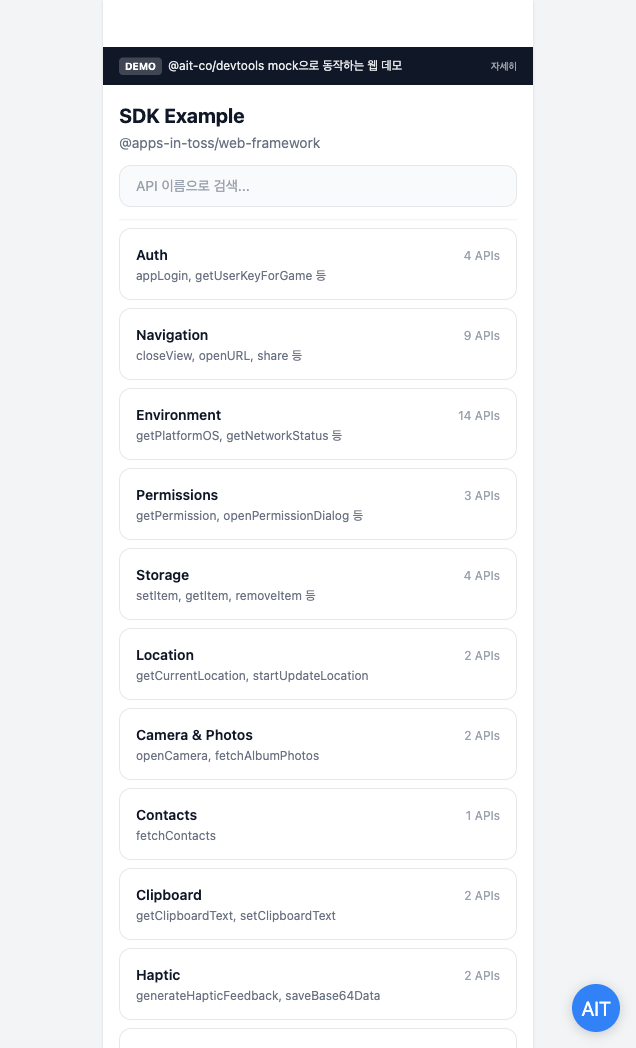
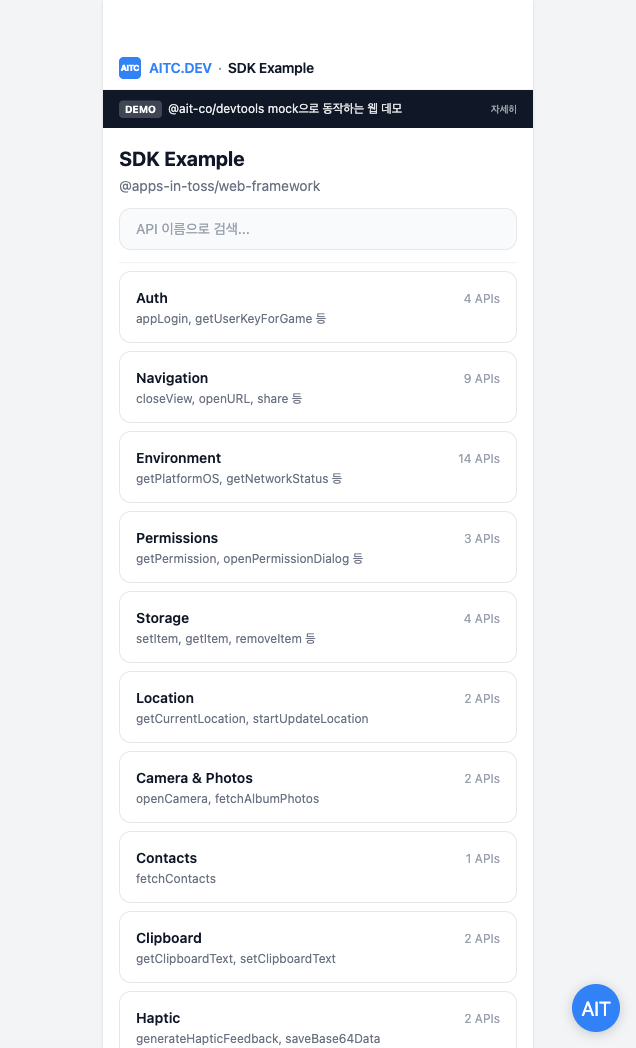
feat(branding): re-register sdk-example as AITC.DEV mini-app (final dog-food) (#39)
* chore(branding): point public/icon.svg at AITC mark

Replace the legacy SDK-only favicon glyph with the AITC mark from
`umbrella/meta/brand/aitc-mark.svg` so the in-browser tab icon, the
header BrandMark, and the mini-app screenshots all share the same
identity.

* feat(branding): replace mini-app assets with AITC.DEV brand variants

Swap the legacy dog-food logo/thumbnail/screenshots for the AITC.DEV
brand line so the assets uploaded to the mini-app console match the
header BrandMark, the favicon, and the umbrella OG image.

- `aitcc/assets/logo.png` (600×600) — AITC mark + `SDK Example` label,
  derived from `aitcc/brand-src/logo.svg` via `rsvg-convert`.
- `aitcc/assets/thumbnail.png` (1932×828) — AITC.DEV horizontal banner
  with the `aitc.dev` accent color and a one-line tagline, derived from
  `aitcc/brand-src/thumbnail.svg`.
- `aitcc/assets/screenshot-{1,2,3}-*.png` (636×1048) — captured live via
  Playwright MCP from `pnpm dev` so each frame includes the AITC.DEV
  BrandMark header from PR #38.

`brand-src/` carries the source SVGs alongside the PNGs so the mini-app
brand can be re-derived without round-tripping through Figma.

* chore(aitcc): rename manifest to aitcc.yaml + AITC.DEV metadata

console-cli v0.1.20 dropped the `.app.` token from the manifest filename,
so `aitcc/aitcc.app.yaml` becomes `aitcc/aitcc.yaml`.

Refresh the manifest body for the AITC.DEV mini-app:
- `titleKo: "AITC SDK 예제"` (server enforces ≤10 code points excl.
[…]

diff --git a/aitcc/README.md b/aitcc/README.md
@@ -1,75 +1,71 @@
-# aitcc dog-food assets
+# aitcc — AITC.DEV SDK Example mini-app
 
-This directory is the dog-food test fixture for `console-cli`'s
-`aitcc app register` command (tracked as umbrella task #23). It stages
-everything needed to submit **sdk-example as a real mini-app on workspace
-3095** the first time `aitcc app register` ships.
+This directory holds the manifest and assets used to register
+**sdk-example as the AITC.DEV SDK Example mini-app on workspace 3095**
+via `aitcc app register` (console-cli ≥ v0.1.20).
 
-This is the **first real submit** of the inferred payload shape documented
-in `../../.playwright-mcp/FORM-SCHEMA-CAPTURED.md`. It will either confirm
-the shape or surface corrections for console-cli #22.
+This is the **final dog-food mini-app** for sdk-example. Subsequent
+changes go through `app update` against the resulting `miniAppId` —
+do **not** register additional apps. See umbrella
+[`CLAUDE.md`](https://github.com/apps-in-toss-community/umbrella/blob/main/CLAUDE.md)
+"sdk-example dog-food 앱" section for the full policy.
 
 ## Contents
 
-- `aitcc.app.yaml` — registration payload (config format defined by #22)
-- `assets/logo.png` — 600×600 PNG app logo
-- `assets/thumbnail.png` — 1932×828 PNG horizontal thumbnail
-- `assets/screenshot-{1,2,3}-*.png` — 636×1048 PNG vertical screenshots (×3, the hard minimum)
+- `aitcc.yaml` — registration manifest (console-cli ≥ v0.1.20 dropped the
+  `.app.` token from the filename).
+- `assets/logo.png` — 600×600 PNG app logo (AITC mark + `SDK Example`).
+- `assets/thumbnail.png` — 1932×828 PNG horizontal thumbnail (AITC.DEV
+  banner, `aitc.dev` brand color, tagline).
+- `assets/screenshot-{1,2,3}-*.png` — 636×1048 PNG vertical screenshots
+  (×3, the hard minimum). All three include the AITC.DEV BrandMark
+  header from the live app.
+- `brand-src/{logo,thumbnail}.svg` — vector source for the PNGs above.
+  Re-derive with `rsvg-convert` (or `magick`) if the brand evolves.
+- `rerun-dogfood.sh` — convenience wrapper for dry-run / live submit.
 
-No dark-mode logo, no horizontal screenshots, no business-reg-number games.
-All fields in `aitcc.app.yaml` match the required/optional split captured
-on 2026-04-22.
-
-## Pre-flight (do before submit)
-
-1. Confirm `aitcc app register` is installed and `aitcc whoami` shows workspace 3095:
-   ```sh
-   aitcc app ls --workspace 3095 --json
-   ```
-2. Fetch the real category IDs and replace the placeholder in
-   `aitcc.app.yaml`'s `categoryIds`:
-   ```sh
-   # aitcc does not yet expose a `category list` command (not in #22 scope).
-   # Temporarily read the response directly:
-   curl -sH "Cookie: $(aitcc session cookie)" \
-     https://apps-in-toss.toss.im/console/api-public/v3/appsintossconsole/impression/category-list
-   ```
-   Pick 1–3 IDs that fit sdk-example's purpose (likely "개발자 도구" / "생활" tier).
-3. Verify image dimensions locally (the command will do this too, but belt-and-suspenders):
-   ```sh
-   file assets/*.png
-   ```
-
-## Submit
-
-From `sdk-example/aitcc/`:
+## Register / re-register
 
 ```sh
-aitcc app register --workspace 3095 --config ./aitcc.app.yaml --json \
+# 1. Make sure the workspace context + session are ready.
+pnpm dlx @ait-co/console-cli@latest workspace use 3095
+pnpm dlx @ait-co/console-cli@latest whoami --json | jq .authenticated
+
+# 2. Dry-run (validates manifest + image dimensions, hits no server).
+pnpm dlx @ait-co/console-cli@latest app register \
+  --config ./aitcc/aitcc.yaml --dry-run --json | jq .
+
+# 3. Real registration (workspace 3095 OWNER session required).
+pnpm dlx @ait-co/console-cli@latest app register \
+  --config ./aitcc/aitcc.yaml --accept-terms --json \
   | tee submit-$(date +%Y%m%d-%H%M%S).json
+
+# 4. Confirm review queue entry.
+pnpm dlx @ait-co/console-cli@latest app status <new-miniAppId> --json | jq .
 ```
 
-Capture the XHR response in Playwright/DevTools in parallel — this is the
-authoritative record we lacked during spec capture. Save it under
-`../../.playwright-mcp/` as `dogfood-23-submit-response.json`.
+## Updating
 
-## Post-submit
+The CLI does **not** yet expose update mode (`aitcc app register` always
+creates). Once it does, run it against the same manifest with the
+existing `miniAppId` injected. Until then, edits go through the console
+web UI (`/mini-app/<id>/meta/edit`).
 
-- Open the console web UI and verify the app appears in the list for workspace 3095.
-- The UI has a separate "검토 요청하기" button for the review-request step.
-  That endpoint is explicitly out of scope for #22; file any findings under
-  a new task.
+REVIEW lock semantics, the `errorCode 4046` branch, and the payload
+shape are documented in
+[`console-cli/docs/api/mini-apps.md`](https://github.com/apps-in-toss-community/console-cli/blob/main/docs/api/mini-apps.md).
 
-## If the submit fails
+## Re-deriving the brand assets
 
-- `400 invalid-payload`: compare the server error field name with
-  `aitcc.app.yaml` and `src/commands/app.ts` payload builder. Feed the diff
-  back into console-cli #22 as a follow-up patch.
-- `image-dimension-mismatch` locally: check `file assets/*.png` — the PNGs
-  in this dir have been verified 600×600 / 1932×828 / 636×1048 at commit time,
-  so a mismatch means the files were replaced.
+Source SVGs live in `brand-src/`. Both PNGs must end up at exact
+console-enforced dimensions:
 
-Once a real response is captured, update
-`../../.playwright-mcp/FORM-SCHEMA-CAPTURED.md` with "Submit shape confirmed
-on 2026-04-YY via dog-food #23" and remove this README's "first real submit"
-language.
+```sh
+rsvg-convert -w 600  -h 600  brand-src/logo.svg      -o assets/logo.png
+rsvg-convert -w 1932 -h 828  brand-src/thumbnail.svg -o assets/thumbnail.png
+magick identify assets/*.png    # spot-check dimensions
+```
+
+Screenshots are captured live from `pnpm dev` at viewport 636×1048 via
+Playwright MCP (see umbrella `meta/brand/README.md` and the parent
+repo's UI regression workflow).
